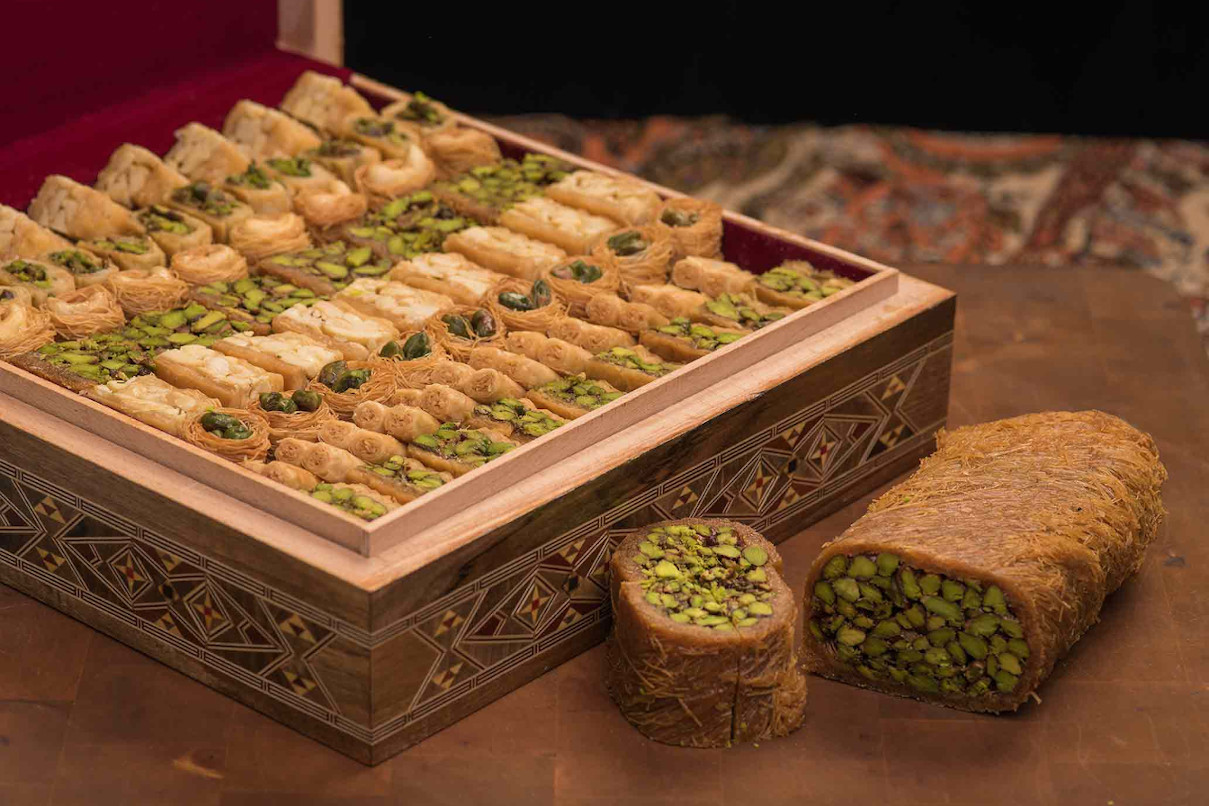
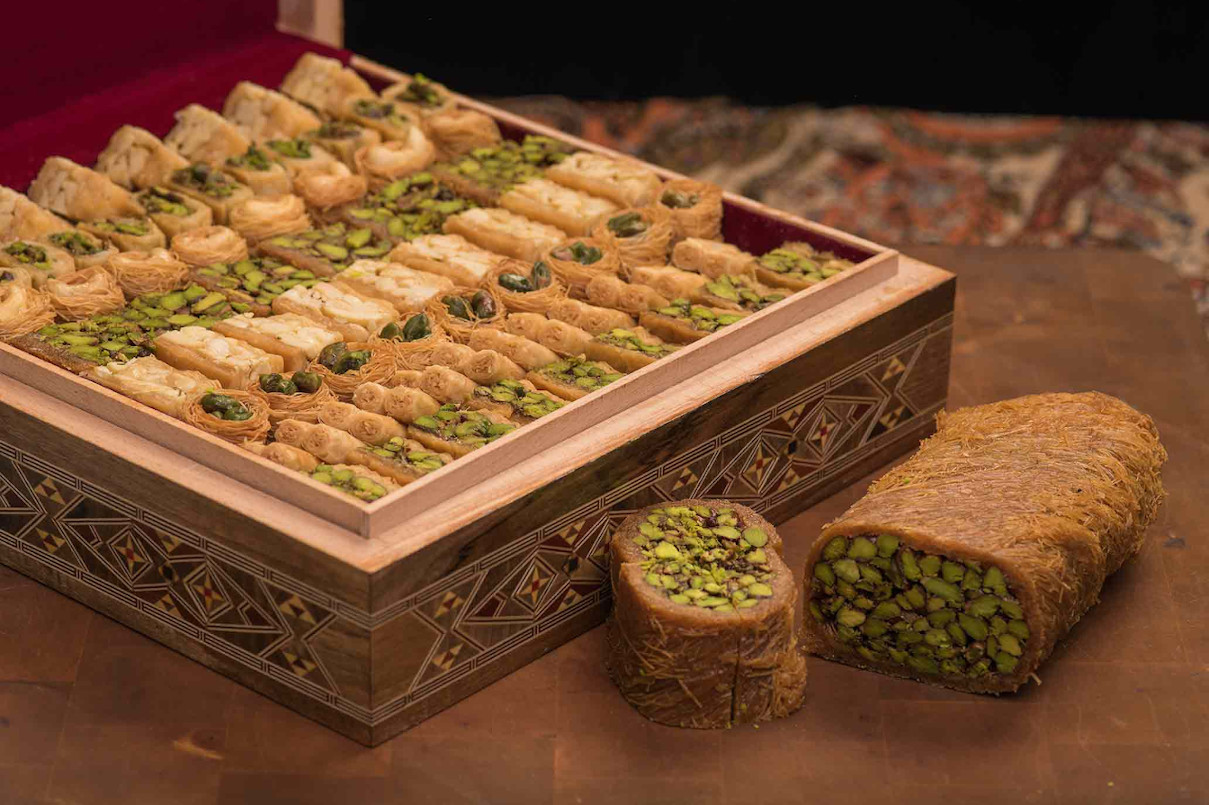
fixing the persnal image knowing that without the sizes the browser won't pick the image according to x or even the w, before this it used to take the 596w with 1&2x when I use w with sizes, and browser was picking 298w when I was differntiate pics with x

diff --git a/resources/srcPage.html b/resources/srcPage.html
@@ -43,7 +43,15 @@
                 <h1>همام بابي خوجة</h1>
                 <p class="description">مسلم 🕋, قارئ شعر عربي ❤, مدمن قهوة ☕, مطور ويب 💛</p>
                 <!-- cover your img with picture and sources tags <!>-->
-                <img class="profile-pic"  src="../img/personal-img(596w).jpg" alt="my personal image">
+                <picture>
+                    <source type="image/webp" srcset="../img/personal-img(298w).webp 298w,
+                                                                            ../img/personal-img(596w).webp 596w" sizes="298px">
+                    <source type="image/jpg" srcset="../img/personal-img(298w).jpg 298w,
+                                                                            ../img/personal-img(596w).jpg 596w" sizes="298px">
+                    
+                    <img class="profile-pic" type="image/jpg" src="../img/fallback.jpg" alt="me and my nephew">
+                </picture>
+
                 <div class="social-block">
                     <ul class="social">
                         <li><a href="https://www.facebook.com/intelligenctprogrammer"><ion-icon class="social-icon" name="logo-facebook"></ion-icon></a></li>
